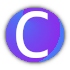
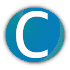
cambio de img

diff --git a/js/scripts.js b/js/scripts.js
@@ -1,41 +1,4 @@
 //const jsonData= require('../Files/proyects.json');
-<<<<<<< HEAD
-
-/* window.onscroll = function() {
-
-  var home      = document.getElementById('home');
-  var about     = document.getElementById('about');
-  var portfolio = document.getElementById('portfolio');
-  var contact   = document.getElementById('contact');
-
-  var posicionhome       = home.getBoundingClientRect();
-  var posicionabout      = about.getBoundingClientRect();
-  var posicionportfolio  = portfolio.getBoundingClientRect();
-  var posicioncontact    = contact.getBoundingClientRect();
-
-  //Limpiamos los colores
-  editElementsByClass("navImg",null,"navBotActive");
-
-  let selected = "navBotHome";
-
-  if(posicioncontact.y<98)
-     selected = "navBotContact";   
-  
-  else if(posicionportfolio.y<98)
-      selected = "navBotPortfolio";
-  
-  else if(posicionabout.y<98)
-     selected = "navBotAbout";
-  
-  else if(posicionhome.y<98)
-      selected = "navBotHome";
- 
-  //agregamos a quien debe tener la clase necesitamos agregar
-  editElementClass(selected,"navBotActive",null);
-  editElementClass(selected+"Mobile","navBotActive",null);
-}; */
-=======
->>>>>>> 220975ff12128cff21ca6b5bff4d4de394369437
 
 
 menuIdSelected = 'homeMenuBarLink';
@@ -43,16 +6,6 @@ menuIdSelected = 'homeMenuBarLink';
 var proyectList = [];
 
 function loadProyects(){
-<<<<<<< HEAD
-  //const jsonData= require('https://ideaschacon.com/ich/proyects.json');
-
-  fetch("https://ideaschacon.com/ich/proyects.json")
-  .then(response => {
-     return response.json();
-  })
-  .then(jsondata => console.log(jsondata));
-  //console.log(jsonData);
-=======
   
   const dire = 'https://ideaschacon.com/ich/proyects/getAll.php';
   
@@ -226,5 +179,4 @@ function detectEdges(){
 
 
   selectMenuOption(elemId+'MenuBarLink','btn-menu');
->>>>>>> 220975ff12128cff21ca6b5bff4d4de394369437
 }
